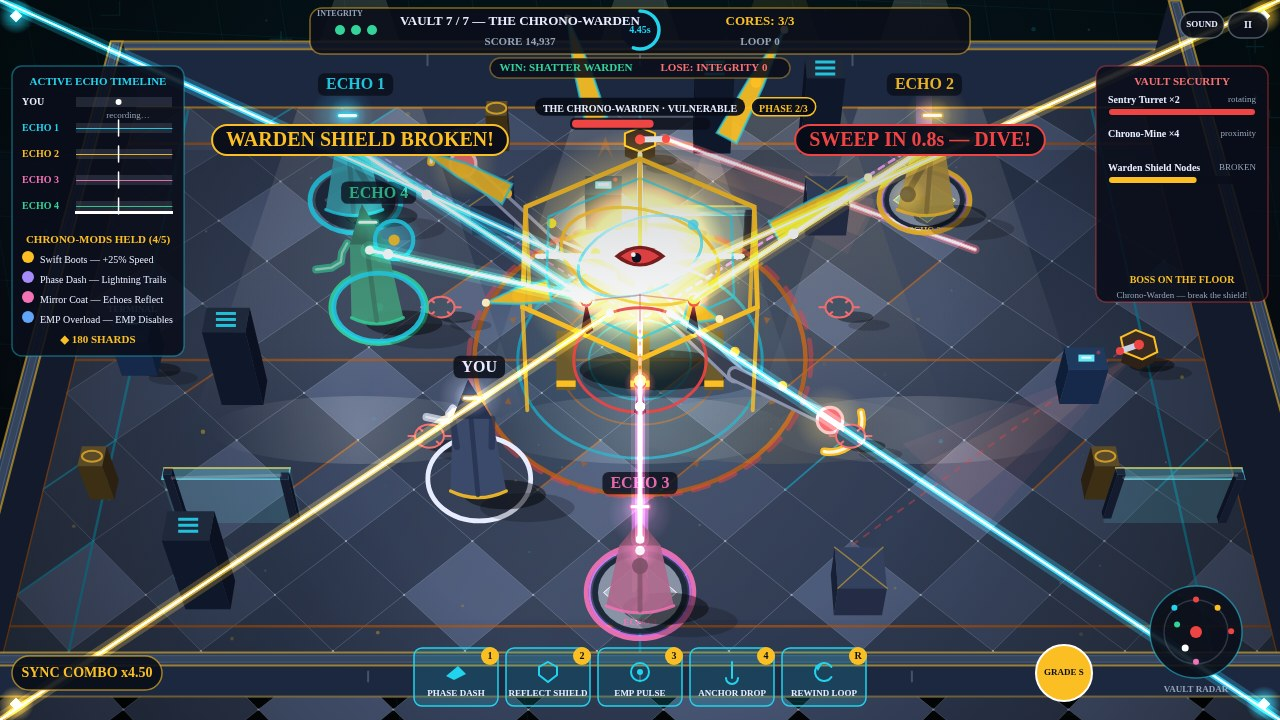
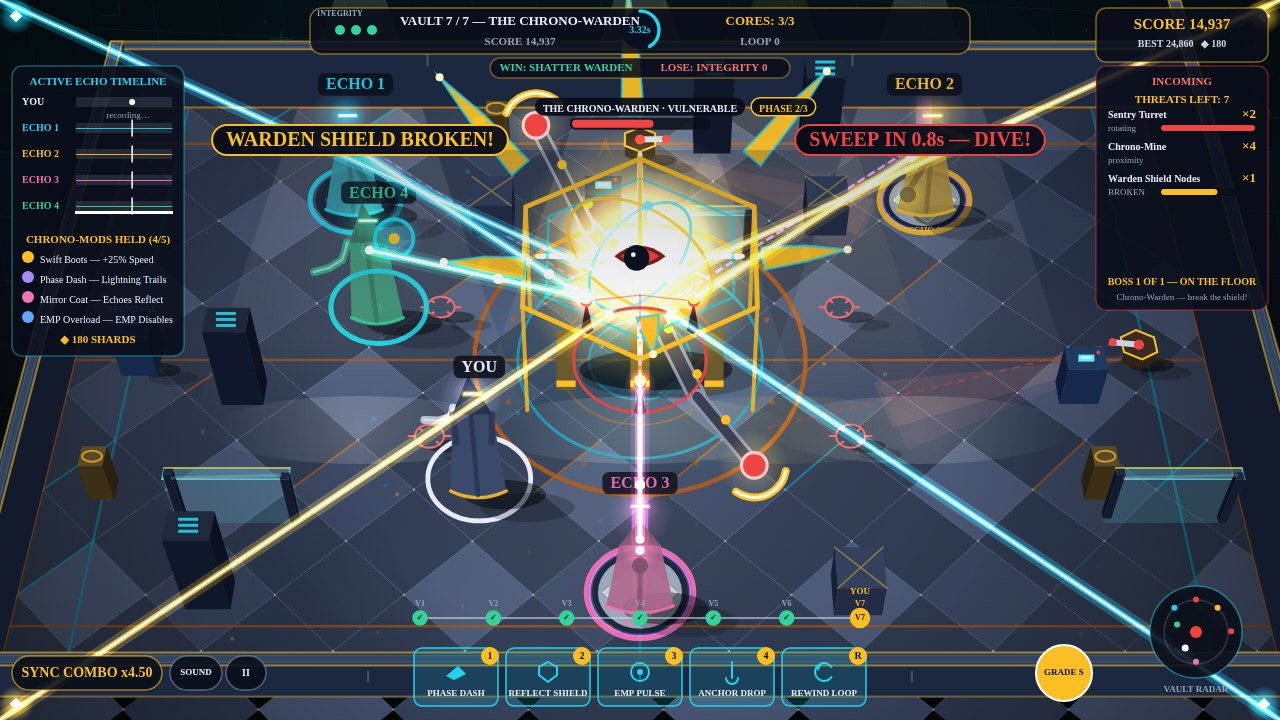
Option A — counts + HUD only (GLASSWRIGHT delta)
- G1: big SCORE + BEST + shards block top-right on the battle cover
  (play only); mute/pause pills moved bottom-left, click zones updated
- G4: realm progress bar V1-V7 with YOU marker (bottom strip, above
  the dock — the top band is reserved for entity tags/callouts)
- G5: right panel restyled as INCOMING queue: THREATS LEFT total plus
  big gold xN counts per threat; BOSS 1 OF 1 line on stage 7
- Title: counts line from real game data (7 vaults, 1 boss, 8 mods,
  6 threats, 8 feats, 21 cores) + 4 past selves / 8s loops / 3 cores
- Draft: route map labelled YOUR ROAD; NEXT WAVE enemy counts computed
  from the real next stage via buildStage (never hand-typed)
- threatList() now exposes per-threat counts; draft staged scene
  starts stage 3 so its HUD matches the cleared vault; boss staged
  scene uses DEMO_PERSIST so BEST shows on the cover

Verified: 4 staged screenshots + live play smoke, zero console/page
errors, zero external requests, dossier byte-identical x2, kit check
5 passed / 1 failed (transcripts_present, expected pre-bundle).
game/ 156,156 B of 163,840 B cap.

diff --git a/game/src/render.js b/game/src/render.js
@@ -1,6 +1,7 @@
 // ECHO VAULT — all drawing: the full-bleed vault floor, props, entities,
-import { W, H, ARENA, ECHO_COLORS, clamp, hash01, THREATS, FEATS, F8, F9, F10, F11, F12, F13, F14, F15, F16, F20, F24, F64, R9, R10, R12, R15, PAN, PAN88, PAN90, INK, MUTE, PALE, GOLD, CYAN, GREEN, RED, REDL, SLATE, DARKT, GOLD50, CYAN40, RED40, GREEN25, WARDEN_PYLONS } from './config.js';
-import { STAGE_NAMES } from './levels.js';
+import { W, H, ARENA, ECHO_COLORS, LOOP_BASE, MAX_ECHOES, clamp, hash01, MODS, THREATS, FEATS, F8, F9, F10, F11, F12, F13, F14, F15, F16, F20, F24, F64, R9, R10, R12, R15, PAN, PAN88, PAN90, INK, MUTE, PALE, GOLD, CYAN, GREEN, RED, REDL, SLATE, DARKT, GOLD50, CYAN40, RED40, GREEN25, WARDEN_PYLONS } from './config.js';
+import { STAGE_NAMES, buildStage } from './levels.js';
+import { makeRng } from './random.js';
 import { iso, screenToWorld, isoDiamond, extrudeBox, isoShadow, depthOf, groundEllipse, dot, isoQuad } from './iso.js';
 import { drawThief, drawTurret, drawWarden, segDist } from './entities.js';
 import { glowSprite, drawGlow, vbeamSprite, glowAt } from './glow.js';
@@ -979,6 +980,40 @@ export function drawHUD(ctx, G, time) {
   text(ctx, 'WIN: SHATTER WARDEN', cx - 74, 68, F11, GREEN);
   text(ctx, 'LOSE: INTEGRITY 0', cx + 74, 68, F11, REDL);
 
+  // --- G1 (play only): big score block top-right — SCORE + BEST + shards ---
+  // (Draft keeps its own shards pill, so the block is play-only.)
+  if (st.screen === 'play') {
+    ctx.save();
+    panel(ctx, 1096, 8, 172, 54, 10, GOLD50, PAN88);
+    text(ctx, 'SCORE ' + st.score.toLocaleString('en-US'), 1182, 25, F15, GOLD);
+    text(ctx, 'BEST ' + (G.persist.best ? G.persist.best.toLocaleString('en-US') : '—') + '   ◆ ' + st.shards, 1182, 44, F10, PALE);
+    ctx.restore();
+  }
+
+  // --- G4 (play only): realm progress bar — V1..V7 with YOU marker ---
+  // Bottom strip, just above the ability dock: the top band is reserved for
+  // entity overhead tags / callouts (the Warden tag lives there in the
+  // boss fight), so a bar there would overlap them.
+  if (st.screen === 'play') {
+    ctx.save();
+    const rx0 = 420, rx1 = 860, ry = 618;
+    ctx.strokeStyle = 'rgba(203,213,225,0.6)';
+    ctx.lineWidth = 2;
+    ctx.beginPath(); ctx.moveTo(rx0, ry); ctx.lineTo(rx1, ry); ctx.stroke();
+    for (let i = 0; i < 7; i++) {
+      const nx = rx0 + (i / 6) * (rx1 - rx0);
+      const done = i + 1 < st.stage, cur = i + 1 === st.stage;
+      ctx.fillStyle = done ? GREEN : cur ? GOLD : '#1e293b';
+      ctx.beginPath(); ctx.arc(nx, ry, cur ? 9 : 7, 0, Math.PI * 2); ctx.fill();
+      ctx.strokeStyle = done ? GREEN : cur ? GOLD : SLATE;
+      ctx.lineWidth = cur ? 2.5 : 1.5; ctx.stroke();
+      text(ctx, done ? '✓' : 'V' + (i + 1), nx, ry, F8, done || cur ? DARKT : MUTE);
+      if (cur) text(ctx, 'YOU', nx, ry - 26, F9, GOLD);
+      text(ctx, 'V' + (i + 1), nx, ry - 14, F8, cur ? GOLD : MUTE);
+    }
+    ctx.restore();
+  }
+
   // --- Left panel: Active Echo Timeline + Chrono-Mods Held ---
   const rows = [{ label: 'YOU', color: INK, rec: null }];
   for (const e of G.echoes) rows.push({ label: 'ECHO ' + (e.idx + 1), color: e.color, rec: e.recording });
@@ -1025,21 +1060,24 @@ export function drawHUD(ctx, G, time) {
   text(ctx, '◆ ' + st.shards + ' SHARDS', 98, 102 + rows.length * 26 + 28 + Math.max(1, st.mods.length) * 20, F11, GOLD, 'center');
   ctx.restore();
 
-  // --- Right panel: Vault Security / Threat Queue ---
+  // --- Right panel: Incoming threat queue (G5) — counts big, total on top ---
   ctx.save();
-  panel(ctx, 1096, 66, 172, 236, 10, RED40, PAN88);
-  text(ctx, 'VAULT SECURITY', 1182, 82, F11, REDL, 'center');
+  panel(ctx, 1096, 66, 172, 244, 10, RED40, PAN88);
+  text(ctx, 'INCOMING', 1182, 82, F11, REDL, 'center');
   const threats = G.threatList();
+  const foesLeft = threats.reduce((a, t) => a + (t.count || 0), 0);
+  text(ctx, 'THREATS LEFT: ' + foesLeft, 1182, 100, F11, GOLD, 'center');
   threats.slice(0, 5).forEach((t, i) => {
-    const y = 104 + i * 34;
-    text(ctx, t.name, 1108, y - 4, F10, INK, 'left');
-    text(ctx, t.note, 1256, y - 4, R9, MUTE, 'right');
-    if (t.frac != null) hpBar(ctx, 1108, y + 4, 148, t.frac, t.color || RED);
+    const y = 120 + i * 32;
+    text(ctx, t.name, 1108, y - 5, F10, INK, 'left');
+    text(ctx, '×' + t.count, 1256, y - 5, F13, GOLD, 'right');
+    text(ctx, t.note, 1108, y + 9, R9, MUTE, 'left');
+    if (t.frac != null) hpBar(ctx, 1160, y + 4, 96, t.frac, t.color || RED);
   });
-  if (threats.length === 0) text(ctx, 'All quiet… for now.', 1182, 130, R10, MUTE, 'center');
+  if (threats.length === 0) text(ctx, 'All quiet… for now.', 1182, 150, R10, MUTE, 'center');
   if (st.stage === 7 && S.warden) {
-    text(ctx, 'BOSS ON THE FLOOR', 1182, 104 + 5 * 34 + 6, F10, GOLD, 'center');
-    text(ctx, 'Chrono-Warden — break the shield!', 1182, 104 + 5 * 34 + 22, R9, MUTE, 'center');
+    text(ctx, 'BOSS 1 OF 1 — ON THE FLOOR', 1182, 282, F10, GOLD, 'center');
+    text(ctx, 'Chrono-Warden — break the shield!', 1182, 298, R9, MUTE, 'center');
   }
   ctx.restore();
 
@@ -1112,11 +1150,12 @@ export function drawHUD(ctx, G, time) {
   text(ctx, 'VAULT RADAR', rx, ry + rr + 12, F9, MUTE);
   ctx.restore();
 
+  // Mute / pause pills live bottom-left now: top-right holds the G1 score block.
   ctx.save();
-  pill(ctx, 1180, 12, 44, 26, PAN90, 'rgba(148,163,184,0.5)');
-  text(ctx, G.audio.muted ? 'MUTE' : 'SOUND', 1202, 25, F9, INK);
-  pill(ctx, 1228, 12, 40, 26, PAN90, 'rgba(148,163,184,0.5)');
-  text(ctx, 'II', 1248, 25, F10, INK);
+  pill(ctx, 170, 656, 52, 34, PAN90, 'rgba(148,163,184,0.5)');
+  text(ctx, G.audio.muted ? 'MUTE' : 'SOUND', 196, 673, F9, INK);
+  pill(ctx, 226, 656, 40, 34, PAN90, 'rgba(148,163,184,0.5)');
+  text(ctx, 'II', 246, 673, F10, INK);
   ctx.restore();
 }
 
@@ -1208,6 +1247,12 @@ export function drawTitle(ctx, G, time) {
   text(ctx, 'WIN: SHATTER WARDEN', 535, 235, F11, GREEN);
   pill(ctx, 650, 222, 190, 26, 'rgba(239,68,68,0.25)', REDL);
   text(ctx, 'LOSE: INTEGRITY 0', 745, 235, F11, REDL);
+  // --- Title counts line (T1): every number comes from the real game data ---
+  // 7 stages (STAGE_NAMES), 1 boss (warden exists only on stage 7), 8 mods
+  // (MODS), 6 threat types (THREATS), 8 feats (FEATS), 21 cores (7 x 3).
+  panel(ctx, 280, 256, 720, 28, GOLD50);
+  text(ctx, `${STAGE_NAMES.length - 1} VAULTS · 1 BOSS · ${MODS.length} CHRONO-MODS · ${THREATS.length} THREATS · ${FEATS.length} FEATS · 21 CORES`, 640, 270, F12, INK);
+  text(ctx, `${MAX_ECHOES} PAST SELVES · ${LOOP_BASE.toFixed(0)}-SECOND LOOPS · 3 CORES PER VAULT`, 640, 296, F11, PALE);
   panel(ctx, 12, 250, 184, 150, 10, GOLD50);
   text(ctx, 'YOUR HEISTS', 104, 268, F11, GOLD);
   const pRows = [
@@ -1329,6 +1374,22 @@ const RARECOL = { C: MUTE, R: CYAN, E: GOLD };
 const RARENAME = { C: 'COMMON', R: 'RARE', E: 'EPIC' };
 const NEXT_NEW = { 2: 'Sentry Turret', 3: 'Temporal Jammer', 4: 'Sentry Turret + Jammer', 5: 'Laser Sweeper', 6: 'Chrono-Mine', 7: 'THE CHRONO-WARDEN' };
 
+// Next-wave enemy counts, computed from the real next stage layout
+// (buildStage) so the numbers on the draft screen can never drift from
+// the game. Stage 7 is the last vault, so there is no next wave after it.
+function nextWaveCounts(stage) {
+  if (stage >= 7) return '';
+  const S = buildStage(stage + 1, makeRng(1337));
+  const parts = [];
+  if (S.turrets.length) parts.push(`SENTRY TURRET ×${S.turrets.length}`);
+  if (S.mines.length) parts.push(`CHRONO-MINE ×${S.mines.length}`);
+  if (S.sweepers.length) parts.push(`LASER SWEEPER ×${S.sweepers.length}`);
+  if (S.jammers.length) parts.push(`JAMMER ×${S.jammers.length}`);
+  if (S.lasers.length) parts.push(`LASER GRID ×${S.lasers.length}`);
+  if (S.warden) parts.push('CHRONO-WARDEN ×1');
+  return parts.join(' · ');
+}
+
 export function drawDraft(ctx, G) {
   const st = G.state;
   ctx.save();
@@ -1339,7 +1400,7 @@ export function drawDraft(ctx, G) {
   text(ctx, '◆ ' + st.shards + ' SHARDS', 1080, 26, F13, GOLD);
   ctx.textAlign = 'center';
   ctx.textBaseline = 'middle';
-  text(ctx, 'VAULT BLUEPRINT — ROUTE MAP', 640, 156, F11, GOLD);
+  text(ctx, '② YOUR ROAD — VAULT BLUEPRINT', 640, 156, F11, GOLD);
   ctx.strokeStyle = 'rgba(251,191,36,0.4)';
   ctx.lineWidth = 2;
   ctx.beginPath(); ctx.moveTo(200, 176); ctx.lineTo(1080, 176); ctx.stroke();
@@ -1353,8 +1414,11 @@ export function drawDraft(ctx, G) {
     text(ctx, STAGE_NAMES[i + 1], nx, 198, R10, next ? GOLD : PALE);
   }
   text(ctx, 'NEXT: VAULT ' + (st.stage + 1) + ' — ' + STAGE_NAMES[st.stage + 1] + ' · NEW: ' + NEXT_NEW[st.stage + 1], 640, 214, F12, CYAN);
+  // Next-wave enemy counts, built from the real next stage (buildStage) —
+  // never hand-typed, so the counts cannot drift from the game.
+  text(ctx, 'NEXT WAVE — ' + nextWaveCounts(st.stage), 640, 232, F11, GOLD);
   st.draft.forEach((m, i) => {
-    const x = 640 - 3 * 140 + i * 290 + 15, y = 224, w = 260, h = 290;
+    const x = 640 - 3 * 140 + i * 290 + 15, y = 242, w = 260, h = 290;
     ctx.fillStyle = '#0f172a';
     ctx.beginPath();
     ctx.roundRect(x, y, w, h, 12);
@@ -1414,15 +1478,15 @@ export function drawDraft(ctx, G) {
   });
   const canMend = st.shards >= 20 && st.hpLeft < st.maxHp;
   const canReroll = st.shards >= 10;
-  pill(ctx, 400, 530, 180, 36, canMend ? GREEN25 : PAN, canMend ? GREEN : 'rgba(148,163,184,0.4)');
-  text(ctx, 'MEND +1 ◆20', 490, 548, F13, canMend ? GREEN : SLATE);
-  pill(ctx, 600, 530, 160, 36, canReroll ? 'rgba(34,211,238,0.25)' : PAN, canReroll ? CYAN : 'rgba(148,163,184,0.4)');
-  text(ctx, 'REROLL ◆10 [R]', 680, 548, F13, canReroll ? CYAN : SLATE);
-  text(ctx, '◆ ' + st.shards, 800, 548, F14, GOLD, 'left');
-  panel(ctx, 640 - 310, 580, 620, 30, 10, null, 'rgba(5,7,13,0.78)');
+  pill(ctx, 400, 548, 180, 36, canMend ? GREEN25 : PAN, canMend ? GREEN : 'rgba(148,163,184,0.4)');
+  text(ctx, 'MEND +1 ◆20', 490, 566, F13, canMend ? GREEN : SLATE);
+  pill(ctx, 600, 548, 160, 36, canReroll ? 'rgba(34,211,238,0.25)' : PAN, canReroll ? CYAN : 'rgba(148,163,184,0.4)');
+  text(ctx, 'REROLL ◆10 [R]', 680, 566, F13, canReroll ? CYAN : SLATE);
+  text(ctx, '◆ ' + st.shards, 800, 566, F14, GOLD, 'left');
+  panel(ctx, 640 - 310, 598, 620, 30, 10, null, 'rgba(5,7,13,0.78)');
   ctx.fillStyle = PALE;
   ctx.font = '13px Georgia, serif';
-  ctx.fillText('Mods held: ' + (st.mods.length ? st.mods.map((m) => m.name).join(' · ') : 'none yet') + '  (' + st.mods.length + '/5)', 640, 596);
+  ctx.fillText('Mods held: ' + (st.mods.length ? st.mods.map((m) => m.name).join(' · ') : 'none yet') + '  (' + st.mods.length + '/5)', 640, 614);
   ctx.restore();
 }
 

diff --git a/game/src/main.js b/game/src/main.js
@@ -174,9 +174,9 @@ class Game {
         return;
       }
       if (this.state.screen !== 'play' || this.paused) return;
-      if (y >= 12 && y <= 38) {
-        if (x >= 1180 && x <= 1224) { this.audio.toggleMute(); return; }
-        if (x >= 1228 && x <= 1268) { this.paused = !this.paused; return; }
+      if (y >= 656 && y <= 690) {
+        if (x >= 170 && x <= 222) { this.audio.toggleMute(); return; }
+        if (x >= 226 && x <= 266) { this.paused = !this.paused; return; }
       }
       const dockW = 5 * 84 + 4 * 8;
       const dockX = 640 - dockW / 2;
@@ -365,15 +365,15 @@ class Game {
     const list = [];
     const liveTurrets = S.turrets.filter((t) => !t.dead);
     if (liveTurrets.length) {
-      list.push({ name: `Sentry Turret ×${liveTurrets.length}`, note: 'rotating', frac: liveTurrets[0].hp / 3, color: RED });
+      list.push({ name: 'Sentry Turret', count: liveTurrets.length, note: 'rotating', frac: liveTurrets[0].hp / 3, color: RED });
     }
     const liveLasers = S.lasers.filter((l) => l.on).length;
-    if (liveLasers) list.push({ name: `Laser Grid ×${liveLasers}`, note: 'live beams', frac: null });
+    if (liveLasers) list.push({ name: 'Laser Grid', count: liveLasers, note: 'live beams', frac: null });
     const liveMines = S.mines.filter((m) => !m.gone).length;
-    if (liveMines) list.push({ name: `Chrono-Mine ×${liveMines}`, note: 'proximity', frac: null });
-    if (S.sweepers.length) list.push({ name: `Laser Sweeper ×${S.sweepers.length}`, note: 'patrolling', frac: null });
+    if (liveMines) list.push({ name: 'Chrono-Mine', count: liveMines, note: 'proximity', frac: null });
+    if (S.sweepers.length) list.push({ name: 'Laser Sweeper', count: S.sweepers.length, note: 'patrolling', frac: null });
     if (S.warden && S.warden.hp > 0) {
-      list.push({ name: 'Warden Shield Nodes', note: S.warden.shield ? 'shielded' : 'BROKEN', frac: S.warden.hp / S.warden.maxHp, color: GOLD });
+      list.push({ name: 'Warden Shield Nodes', count: 1, note: S.warden.shield ? 'shielded' : 'BROKEN', frac: S.warden.hp / S.warden.maxHp, color: GOLD });
     }
     return list;
   }
@@ -671,6 +671,7 @@ class Game {
       this.startStage(7);
       const st = this.state;
       st.screen = 'play';
+      this.persist = DEMO_PERSIST;
       st.score = 14937;
       st.combo = 4.5;
       st.maxSync = 4.5;
@@ -703,6 +704,7 @@ class Game {
       this.stage.turrets[0].state = 'fire';
       this.stage.turrets[0].angle = 0.4;
     } else if (name === 'draft') {
+      this.startStage(3);
       this.state.screen = 'draft';
       this.player.x = 400;
       this.player.y = 600;
